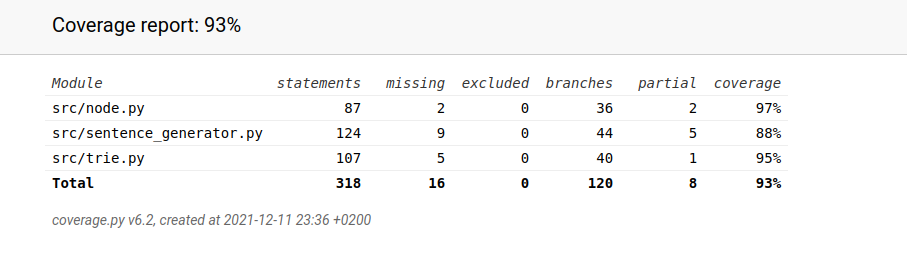
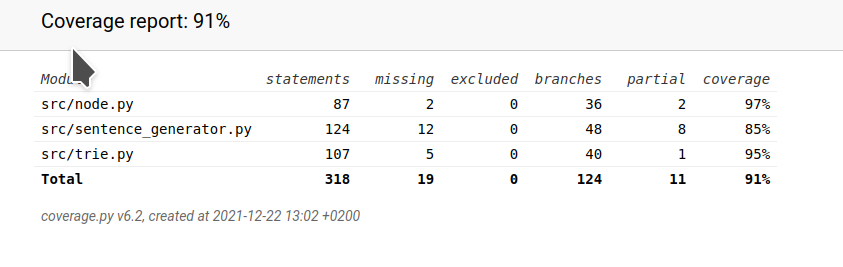
Allow 0 as Markov degree for generated strings

diff --git a/src/tests/sentence_generator_test.py b/src/tests/sentence_generator_test.py
@@ -89,7 +89,7 @@ class TestSentenceGenerator(unittest.TestCase):
         self.assertNotEqual(wordlist, [])
         
     def test_degree_value_validation_works(self):
-        self.assertFalse(self.sg.is_degree_valid(0))
+        self.assertFalse(self.sg.is_degree_valid(-1))
         self.assertFalse(self.sg.is_degree_valid(self.sg.max_degree + 1))
         self.assertTrue(self.sg.is_degree_valid(1))
         self.assertTrue(self.sg.is_degree_valid(self.sg.max_degree))
@@ -97,7 +97,8 @@ class TestSentenceGenerator(unittest.TestCase):
     def test_degree_string_value_validation_works(self):
         self.assertFalse(self.sg.is_string_valid_degree("1.0"))
         self.assertFalse(self.sg.is_string_valid_degree("F"))
-        self.assertFalse(self.sg.is_string_valid_degree("0"))        
+        self.assertFalse(self.sg.is_string_valid_degree("-1"))        
+        self.assertTrue(self.sg.is_string_valid_degree("0"))        
         self.assertTrue(self.sg.is_string_valid_degree("1"))
 
     def test_length_validation_returns_true_if_positive(self):
